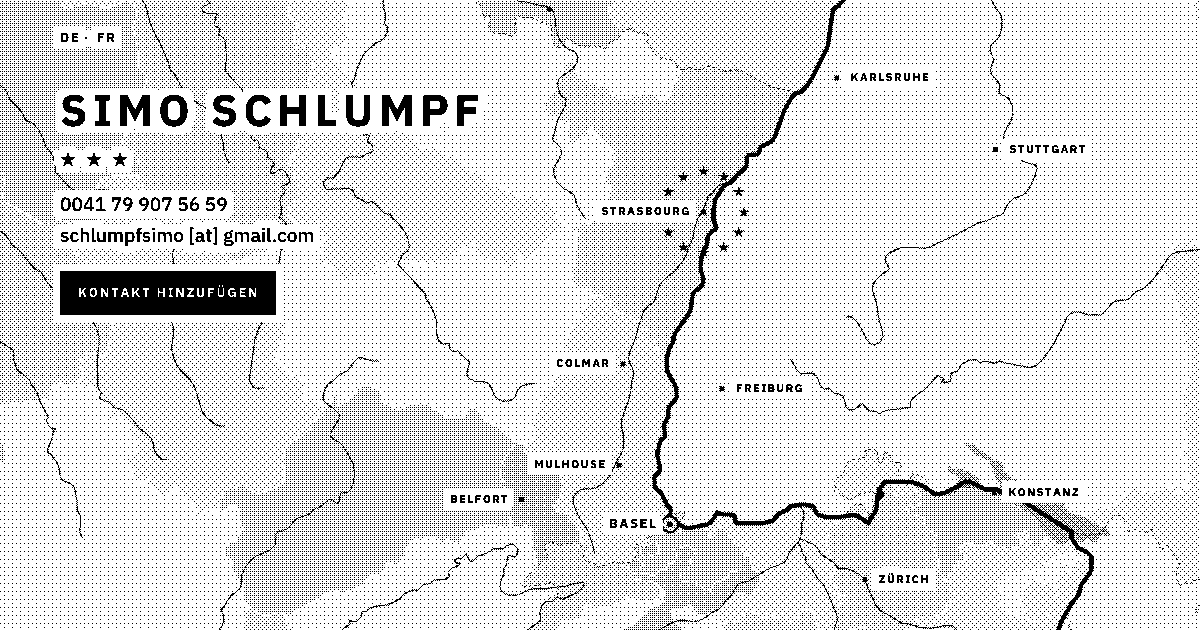
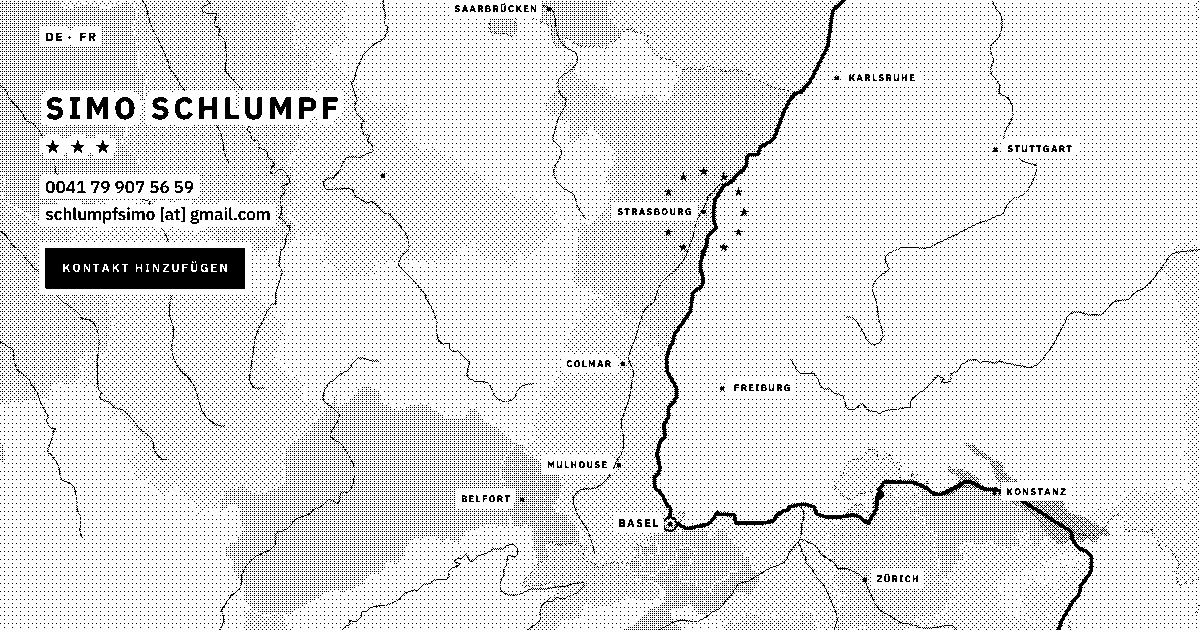
Startseite passt sich jeder Fenster- und Bildschirmgrösse an
- Beim Ziehen am Fenster wird live grob mitgedruckt, nach einer kurzen
  Pause fein; die Leinwand hat eine feste Grösse und wird nie verzerrt.
- Hoch- und Querformat gehen stufenlos ineinander über (Massstab und
  Lage der Karte werden zwischen Seitenverhältnis 0,9 und 1,4 überblendet).
- Schrift, Abstände, Linien, Sterne und Ortsnamen wachsen mit einem
  Grundmass aus Breite und Höhe: ruhig auf dem Handy, gross auf 4K.
- Neuer Druck bei Browser-Zoom, Bildschirmwechsel (Pixeldichte) und
  Änderungen des sichtbaren Bereichs auf dem Handy.

Claude-Session: https://claude.ai/code/session_01KMXMC38jfi9rowwo8arKdi

diff --git a/karte/karte.js b/karte/karte.js
@@ -77,19 +77,27 @@
   const TON = [3, 6, 9, 12, 15].map(d => 255 * (64 - d) / 64);
   const UEBERGANG = 260;                      // ms, bis ein gewähltes Gebiet weiss ist
 
-  // Projektion. Quer: Basel bis Karlsruhe füllt die Höhe, der Rhein liegt rechts vom Text.
-  // Hoch: Basel bis knapp über Strasbourg füllt den Raum unter dem Text.
+  // Projektion, stufenlos vom Hoch- zum Querformat:
+  //   hoch  Basel bis knapp über Strasbourg füllt den Raum unter dem Text, Rhein in der Mitte
+  //   quer  Basel bis Karlsruhe füllt die Höhe, der Rhein liegt rechts vom Text
+  // Dazwischen (Seitenverhältnis 0,9 bis 1,4) werden Massstab und Lage weich überblendet.
   function projektion(W, H, inhalt) {
-    const lat0 = 48.3, k = Math.cos(lat0 * Math.PI / 180), lonR = 7.95;
-    if (W > H * 1.1) {
-      const s = Math.max(H / 2.05, 300);
-      const xRhein = Math.max(W * .62, inhalt.rechts + 260);
-      return ([lon, lat]) => [xRhein + (lon - lonR) * k * s, H * .47 - (lat - lat0) * s];
-    }
+    const k = Math.cos(48.3 * Math.PI / 180), lonR = 7.95, latB = 47.558;
+    // hoch: Massstab aus dem Raum unter dem Text
     const oben = inhalt.unten + 90, unten = H - 70;
-    const s = Math.min(Math.max((unten - oben) / (48.573 - 47.558), 260), 900);
-    return ([lon, lat]) => [W * .55 + (lon - lonR) * k * s, unten - (lat - 47.558) * s];
+    const sH = Math.min(Math.max((unten - oben) / (48.573 - latB), 260), 900);
+    const hoch = { s: sH, x: W * .55, y: unten };
+    // quer: Basel liegt dort, wo lat 48,3 auf 47 % der Höhe steht
+    const sQ = Math.max(H / 2.05, 300);
+    const quer = { s: sQ, x: Math.max(W * .62, inhalt.rechts + 260), y: H * .47 + (48.3 - latB) * sQ };
+    const v = W / H, a = Math.min(1, Math.max(0, (v - .9) / .5)), q = a * a * (3 - 2 * a);   // weich
+    const s = hoch.s + (quer.s - hoch.s) * q, x = hoch.x + (quer.x - hoch.x) * q, y = hoch.y + (quer.y - hoch.y) * q;
+    return ([lon, lat]) => [x + (lon - lonR) * k * s, y - (lat - latB) * s];
   }
+
+  // Kartenmass: Linien, Sterne und Ortsnamen wachsen mit dem Bildschirm wie die Schrift (--u in karte.css)
+  let mass = 1;
+  const kartenmass = () => Math.min(Math.max(Math.min(innerWidth / 100, innerHeight * .016) / 14.4, .85), 1.7);
 
   const ringe = (ctx, px, rs) => rs.forEach(r => r.forEach((q, i) => { const [a, b] = px(q); i ? ctx.lineTo(a, b) : ctx.moveTo(a, b); }));
 
@@ -111,17 +119,17 @@
     ctx.lineCap = ctx.lineJoin = 'round';
     ctx.fillStyle = '#a8a8a8'; ctx.beginPath(); ringe(ctx, px, D.seen); ctx.fill();
     ctx.strokeStyle = '#000';
-    ctx.lineWidth = 1; ctx.setLineDash([2, 3]); D.grenzen.forEach(linie); ctx.setLineDash([]);
-    ctx.lineWidth = 1.2; D.fluesse.forEach(linie);
-    ctx.lineWidth = 4.5; D.rhein.forEach(linie);
+    ctx.lineWidth = mass; ctx.setLineDash([2 * mass, 3 * mass]); D.grenzen.forEach(linie); ctx.setLineDash([]);
+    ctx.lineWidth = 1.2 * mass; D.fluesse.forEach(linie);
+    ctx.lineWidth = 4.5 * mass; D.rhein.forEach(linie);
 
     // Zwölf Sterne um Strasbourg
     const [sx, sy] = px([7.752, 48.573]);
-    const R = Math.min(Math.max((px([7.752, 47.558])[1] - sy) * .13, 36), 90);   // Radius im Verhältnis zum Massstab
+    const R = Math.min(Math.max((px([7.752, 47.558])[1] - sy) * .13, 36 * mass), 90 * mass);   // Radius im Verhältnis zum Massstab
     ctx.fillStyle = '#000';
     for (let i = 0; i < 12; i++) {
       const w = i / 12 * 2 * Math.PI;
-      ctx.save(); ctx.translate(sx + R * Math.sin(w), sy - R * Math.cos(w)); ctx.scale(6, 6); ctx.fill(STERN); ctx.restore();
+      ctx.save(); ctx.translate(sx + R * Math.sin(w), sy - R * Math.cos(w)); ctx.scale(6 * mass, 6 * mass); ctx.fill(STERN); ctx.restore();
     }
 
     // Orte: Punkt auf der Karte, Name kommt zur Schrift (scharf, mit Hof); Basel mit Ring und Wassertemperatur
@@ -133,10 +141,10 @@
       const basel = o.n === 'Basel';
       schilder.push({ t: o.n.toUpperCase(), a, b, links: LINKS.has(o.n), gross: basel, zusatz: basel ? wasser : '' });
       if (basel) {
-        ctx.beginPath(); ctx.arc(a, b, 8, 0, 2 * Math.PI); ctx.fillStyle = '#fff'; ctx.fill();
-        ctx.lineWidth = 2.5; ctx.stroke();
-        ctx.beginPath(); ctx.arc(a, b, 3, 0, 2 * Math.PI); ctx.fillStyle = '#000'; ctx.fill();
-      } else { ctx.fillStyle = '#000'; ctx.fillRect(a - 2.5, b - 2.5, 5, 5); }
+        ctx.beginPath(); ctx.arc(a, b, 8 * mass, 0, 2 * Math.PI); ctx.fillStyle = '#fff'; ctx.fill();
+        ctx.lineWidth = 2.5 * mass; ctx.stroke();
+        ctx.beginPath(); ctx.arc(a, b, 3 * mass, 0, 2 * Math.PI); ctx.fillStyle = '#000'; ctx.fill();
+      } else { ctx.fillStyle = '#000'; ctx.fillRect(a - 2.5 * mass, b - 2.5 * mass, 5 * mass, 5 * mass); }
     }
     ctx.restore();
   }
@@ -151,12 +159,14 @@
   let wahl = -1;                              // gewähltes Gebiet (Nummer in D.gebiete), -1 = keins
   const blass = new Map();                    // Gebiet → Anteil seines Tons, 0 = weiss, 1 = voll
 
-  function setzen() {
+  function setzen(grob = false) {
     const B = blatt.getBoundingClientRect();
     const W = B.width, H = B.height;
     if (!W || !H) return null;
+    mass = kartenmass();
     const dpr = Math.min(window.devicePixelRatio || 1, 3);
-    const p = dpr >= 2 ? .75 : 1;              // CSS-Pixel pro Punkt: fein, aber auf dem Schirm noch rund
+    // CSS-Pixel pro Punkt: fein, aber auf dem Schirm noch rund. Während das Fenster gezogen wird gröber, damit es mitkommt.
+    const p = (dpr >= 2 ? .75 : 1) * (grob ? 2 : 1);
     const w = Math.ceil(W / p), h = Math.ceil(H / p);
     const lage = r => ({ x: r.left - B.left, y: r.top - B.top, w: r.width, h: r.height });
     const neu = (grund = '#fff') => {
@@ -235,23 +245,23 @@
     }
     // Ortsnamen gesperrt, Zeichen für Zeichen
     for (const o of schilder) {
-      s.font = `700 ${o.gross ? 13 : 11}px Plex, sans-serif`; s.fillStyle = '#000'; s.textBaseline = 'middle';
-      const sp = 1.6, bw = [...o.t].reduce((a, ch) => a + s.measureText(ch).width + sp, 0) - sp;
-      let links = o.links;
-      if (links && o.a - 14 - bw < 8) links = false;            // am Rand auf die andere Seite
-      if (!links && o.a + 14 + bw > W - 8) links = true;
-      let x = links ? o.a - 14 - bw : o.a + 14;
+      s.font = `700 ${(o.gross ? 13 : 11) * mass}px Plex, sans-serif`; s.fillStyle = '#000'; s.textBaseline = 'middle';
+      const sp = 1.6 * mass, bw = [...o.t].reduce((a, ch) => a + s.measureText(ch).width + sp, 0) - sp;
+      let links = o.links; const ab = 14 * mass;
+      if (links && o.a - ab - bw < 8) links = false;            // am Rand auf die andere Seite
+      if (!links && o.a + ab + bw > W - 8) links = true;
+      let x = links ? o.a - ab - bw : o.a + ab;
       if (x < inhalt.rechts + 16 && o.b < inhalt.unten + 24) continue;   // nicht in den Text
       if (x < 4 || x + bw > W - 4) continue;
       const x0 = x;
       for (const ch of o.t) { s.fillText(ch, x, o.b); x += s.measureText(ch).width + sp; }
-      if (o.zusatz) { s.font = '700 15px Plex, sans-serif'; s.fillText(o.zusatz, links ? x0 + bw - s.measureText(o.zusatz).width : x0, o.b + 19); }
+      if (o.zusatz) { s.font = `700 ${15 * mass}px Plex, sans-serif`; s.fillText(o.zusatz, links ? x0 + bw - s.measureText(o.zusatz).width : x0, o.b + 19 * mass); }
     }
     const sd = s.getImageData(0, 0, w, h).data;
     const schrift = new Uint8Array(n);
     for (let i = 0, j = 0; i < n; i++, j += 4) schrift[i] = hell(sd, j) < SCHWELLE ? 1 : 0;
     // Hof um die Schrift: die Karte weicht rundherum aus
-    const hof = dehnen(schrift, w, h, Math.round(7 / p));
+    const hof = dehnen(schrift, w, h, Math.round(7 * mass / p));
 
     // Ausdehnung und Schwerpunkt je Gebiet (für Neudruck und Beschriftung)
     const anz = D ? D.gebiete.length + 1 : 1;
@@ -313,14 +323,15 @@
     if (best < 0) return null;
     const t = (LANG === 'fr' ? D.gebiete[k].fr : D.gebiete[k].de).toUpperCase();
     const c = document.createElement('canvas').getContext('2d', { willReadFrequently: true });
-    c.font = '700 13px Plex, sans-serif';
-    const sp = 1.8, bw = [...t].reduce((a, ch) => a + c.measureText(ch).width + sp, 0) - sp;
-    const rand = 8, sw = Math.ceil((bw + 2 * rand) / p), sh = Math.ceil((18 + 2 * rand) / p);
+    const fs = 13 * mass;
+    c.font = `700 ${fs}px Plex, sans-serif`;
+    const sp = 1.8 * mass, bw = [...t].reduce((a, ch) => a + c.measureText(ch).width + sp, 0) - sp;
+    const rand = 8 * mass, sw = Math.ceil((bw + 2 * rand) / p), sh = Math.ceil((fs * 1.4 + 2 * rand) / p);
     c.canvas.width = sw; c.canvas.height = sh;
     c.fillStyle = '#fff'; c.fillRect(0, 0, sw, sh); c.scale(1 / p, 1 / p);
-    c.font = '700 13px Plex, sans-serif'; c.fillStyle = '#000'; c.textBaseline = 'middle';
+    c.font = `700 ${fs}px Plex, sans-serif`; c.fillStyle = '#000'; c.textBaseline = 'middle';
     let x = rand;
-    for (const ch of t) { c.fillText(ch, x, rand + 9); x += c.measureText(ch).width + sp; }
+    for (const ch of t) { c.fillText(ch, x, rand + fs * .7); x += c.measureText(ch).width + sp; }
     const d = c.getImageData(0, 0, sw, sh).data, bits = new Uint8Array(sw * sh);
     for (let i = 0; i < sw * sh; i++) bits[i] = hell(d, i * 4) < SCHWELLE ? 1 : 0;
     const sx = Math.min(Math.max(best % w - (sw >> 1), 0), w - sw), sy = Math.min(Math.max((best / w | 0) - (sh >> 1), 0), h - sh);
@@ -376,6 +387,8 @@
     const dpr = Math.min(window.devicePixelRatio || 1, 3);
     leinwand.width = Math.round(S.W * dpr);
     leinwand.height = Math.round(S.H * dpr);
+    // feste Grösse in CSS-Pixeln: beim Ziehen am Fenster wird nichts verzerrt, bis neu gedruckt ist
+    leinwand.style.width = S.W + 'px'; leinwand.style.height = S.H + 'px';
     ctx = leinwand.getContext('2d'); ctx.fillStyle = '#000';
     gross = S.p * dpr;                         // Gerätepixel pro Punkt
     const id = ++laeuft;
@@ -392,12 +405,14 @@
     requestAnimationFrame(schritt);
   }
 
-  let breite = 0, hoehe = 0;
-  function drucken(langsam = false) {
-    if (!setzen()) return;
-    breite = S.W; hoehe = S.H;
+  let breite = 0, hoehe = 0, schaerfe = 0;
+  function drucken(langsam = false, grob = false) {
+    performance.mark('druck');
+    if (!setzen(grob)) return;
+    breite = S.W; hoehe = S.H; schaerfe = window.devicePixelRatio || 1;
     zeichnen(langsam);
     root.classList.add('gedruckt');
+    performance.measure(grob ? 'druck grob' : 'druck', 'druck');
   }
 
   // ------------------------------------------------------------ Gebiete wählen
@@ -471,11 +486,23 @@
     try { drucken(!leise); } catch (e) { root.classList.remove('js'); throw e; }
     // Kommt der Rhein später, neu drucken (Werte und Temperatur bei Basel), ohne Animation
     daten.then(() => { if (!mitRhein && wasser) drucken(false); });
-    let t;
-    new ResizeObserver(() => {
+    // Fenster ziehen, drehen, zoomen: jedes Bild grob mitdrucken, nach einer Pause fein
+    let bild = 0, ruhe = 0;
+    const nachfuehren = () => {
       const r = blatt.getBoundingClientRect();
-      if (Math.abs(r.width - breite) < .5 && Math.abs(r.height - hoehe) < .5) return;
-      clearTimeout(t); t = setTimeout(() => drucken(false), 120);
-    }).observe(blatt);
+      if (Math.abs(r.width - breite) < .5 && Math.abs(r.height - hoehe) < .5 && schaerfe === (window.devicePixelRatio || 1)) return;
+      if (!bild) bild = requestAnimationFrame(() => { bild = 0; drucken(false, true); });
+      clearTimeout(ruhe);
+      ruhe = setTimeout(() => { cancelAnimationFrame(bild); bild = 0; drucken(false); }, 160);
+    };
+    new ResizeObserver(nachfuehren).observe(blatt);
+    // anderer Bildschirm oder Browser-Zoom: die Pixeldichte ändert sich, auch wenn die Grösse bleibt
+    const dichte = () => {
+      const m = matchMedia(`(resolution: ${window.devicePixelRatio || 1}dppx)`);
+      m.addEventListener('change', () => { nachfuehren(); dichte(); }, { once: true });
+    };
+    dichte();
+    addEventListener('resize', nachfuehren);
+    visualViewport?.addEventListener('resize', nachfuehren);
   })();
 })();

diff --git a/karte/karte.css b/karte/karte.css
@@ -3,7 +3,12 @@
 @font-face{font-family:"Plex";src:url(plex-500.woff2) format("woff2");font-weight:500;font-display:block}
 @font-face{font-family:"Plex";src:url(plex-700.woff2) format("woff2");font-weight:700;font-display:block}
 
-:root{ --tinte:#000; --papier:#fff; color-scheme:light }
+:root{
+  --tinte:#000; --papier:#fff; color-scheme:light;
+  /* Grundmass: 1 % der Breite, aber höchstens 1,6 % der Höhe. So wächst die Schrift auf grossen
+     Bildschirmen mit, bleibt auf breiten, niedrigen Fenstern ruhig und auf dem Handy lesbar. */
+  --u:min(1vw,1.6vh);
+}
 *{box-sizing:border-box}
 html,body{margin:0;background:var(--papier);color:var(--tinte)}
 body{font:500 17px/1.5 "Plex",system-ui,sans-serif;-webkit-font-smoothing:antialiased;-webkit-text-size-adjust:100%}
@@ -12,30 +17,30 @@ body{font:500 17px/1.5 "Plex",system-ui,sans-serif;-webkit-font-smoothing:antial
 .druck{position:absolute;inset:0;width:100%;height:100%;pointer-events:none}
 .satz{
   position:relative;display:flex;flex-direction:column;align-items:flex-start;
-  padding:max(28px,env(safe-area-inset-top)) clamp(24px,5vw,72px) 40px;
+  padding:max(clamp(28px,2.4 * var(--u),60px),env(safe-area-inset-top)) clamp(24px,4.5 * var(--u),140px) 40px;
 }
 .satz>*{margin:0}
 .satz a{color:inherit;text-decoration:none}
 .satz a:hover,.satz a:focus-visible{text-decoration:underline;text-decoration-thickness:2px;text-underline-offset:4px;outline:none}
 
-.sprache{font-size:13px;font-weight:700;letter-spacing:.14em;margin-bottom:clamp(28px,6vh,64px)!important}
-.name{font-size:clamp(28px,4vw,44px);font-weight:700;letter-spacing:.12em;text-transform:uppercase;line-height:1.15}
-.sterne{display:flex;gap:10px;margin:16px 0 22px!important}
-.sterne svg{width:16px;height:16px;fill:var(--tinte)}
+.sprache{font-size:clamp(12px,.9 * var(--u),20px);font-weight:700;letter-spacing:.14em;margin-bottom:clamp(28px,4.4 * var(--u),110px)!important}
+.name{font-size:clamp(28px,3.05 * var(--u),88px);font-weight:700;letter-spacing:.12em;text-transform:uppercase;line-height:1.15}
+.sterne{display:flex;gap:clamp(10px,.7 * var(--u),18px);margin:clamp(14px,1.1 * var(--u),28px) 0 clamp(20px,1.5 * var(--u),38px)!important}
+.sterne svg{width:clamp(15px,1.1 * var(--u),28px);height:clamp(15px,1.1 * var(--u),28px);fill:var(--tinte)}
 .kontakt{display:flex;flex-direction:column;align-items:flex-start;gap:2px}
-.kontakt a{font-size:clamp(17px,1.6vw,20px)}
+.kontakt a{font-size:clamp(17px,1.39 * var(--u),32px)}
 .knopf{
-  display:inline-block;margin-top:22px!important;padding:12px 18px;
+  display:inline-block;margin-top:clamp(20px,1.5 * var(--u),38px)!important;padding:.95em 1.4em;
   background:var(--tinte);color:var(--papier)!important;
-  font-size:13px;font-weight:700;letter-spacing:.14em;text-transform:uppercase;
+  font-size:clamp(12px,.9 * var(--u),20px);font-weight:700;letter-spacing:.14em;text-transform:uppercase;
 }
 .satz a.knopf:hover,.satz a.knopf:focus-visible{text-decoration-color:var(--papier)}
 
-.rhein{margin-top:clamp(28px,6vh,56px)!important;display:grid;grid-template-columns:auto auto;column-gap:28px;row-gap:2px;align-items:baseline}
+.rhein{margin-top:clamp(28px,3.9 * var(--u),96px)!important;display:grid;grid-template-columns:auto auto;column-gap:clamp(24px,1.9 * var(--u),48px);row-gap:2px;align-items:baseline}
 .rhein[hidden]{display:none}
-.rhein .k{font-size:13px;letter-spacing:.14em;text-transform:uppercase}
-.rhein .kopf{grid-column:1 / -1;font-size:13px;font-weight:700;letter-spacing:.14em;text-transform:uppercase;margin-bottom:6px}
-.rhein .w{font-weight:700;font-size:clamp(17px,1.6vw,20px)}
+.rhein .k{font-size:clamp(12px,.9 * var(--u),20px);letter-spacing:.14em;text-transform:uppercase}
+.rhein .kopf{grid-column:1 / -1;font-size:clamp(12px,.9 * var(--u),20px);font-weight:700;letter-spacing:.14em;text-transform:uppercase;margin-bottom:6px}
+.rhein .w{font-weight:700;font-size:clamp(17px,1.39 * var(--u),32px)}
 
 /* Sobald gedruckt ist, wird der HTML-Satz durchsichtig: er bleibt anklick- und markierbar */
 .js .satz{visibility:hidden}
